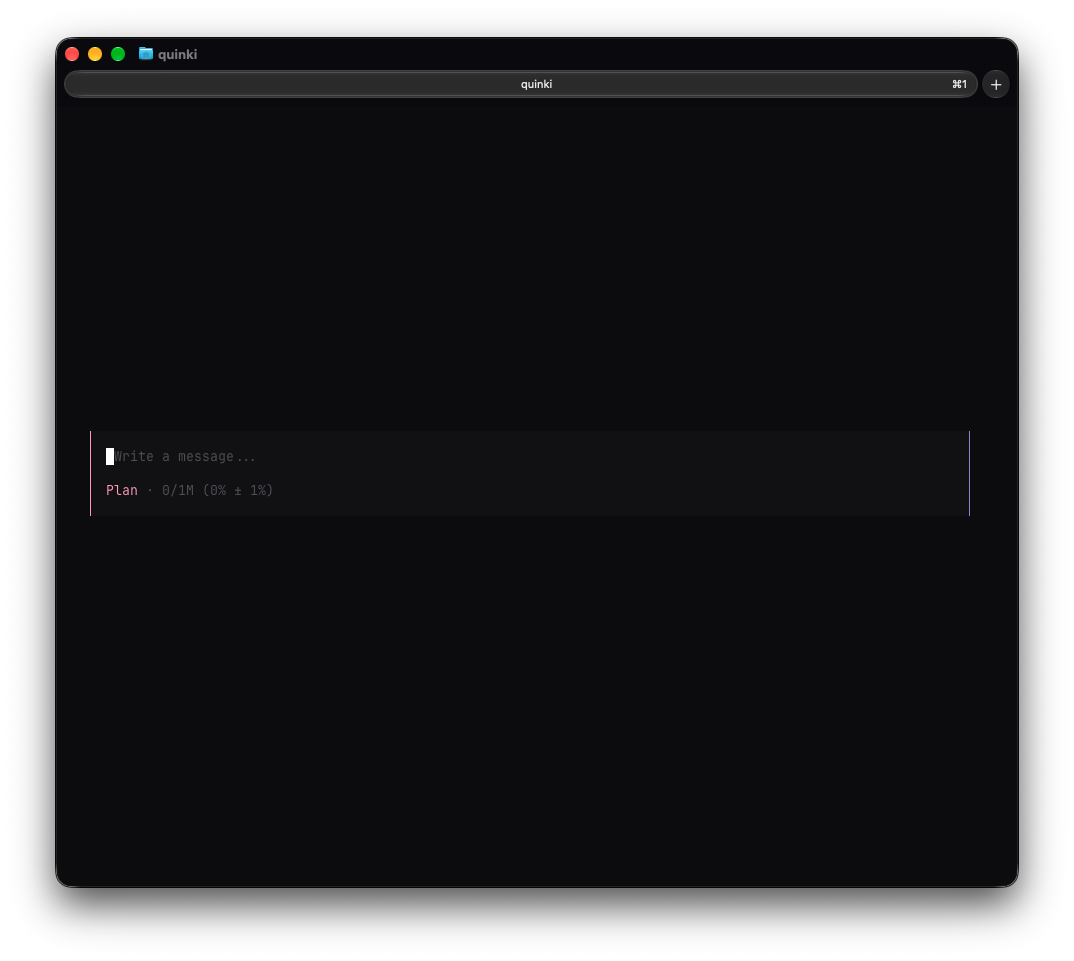
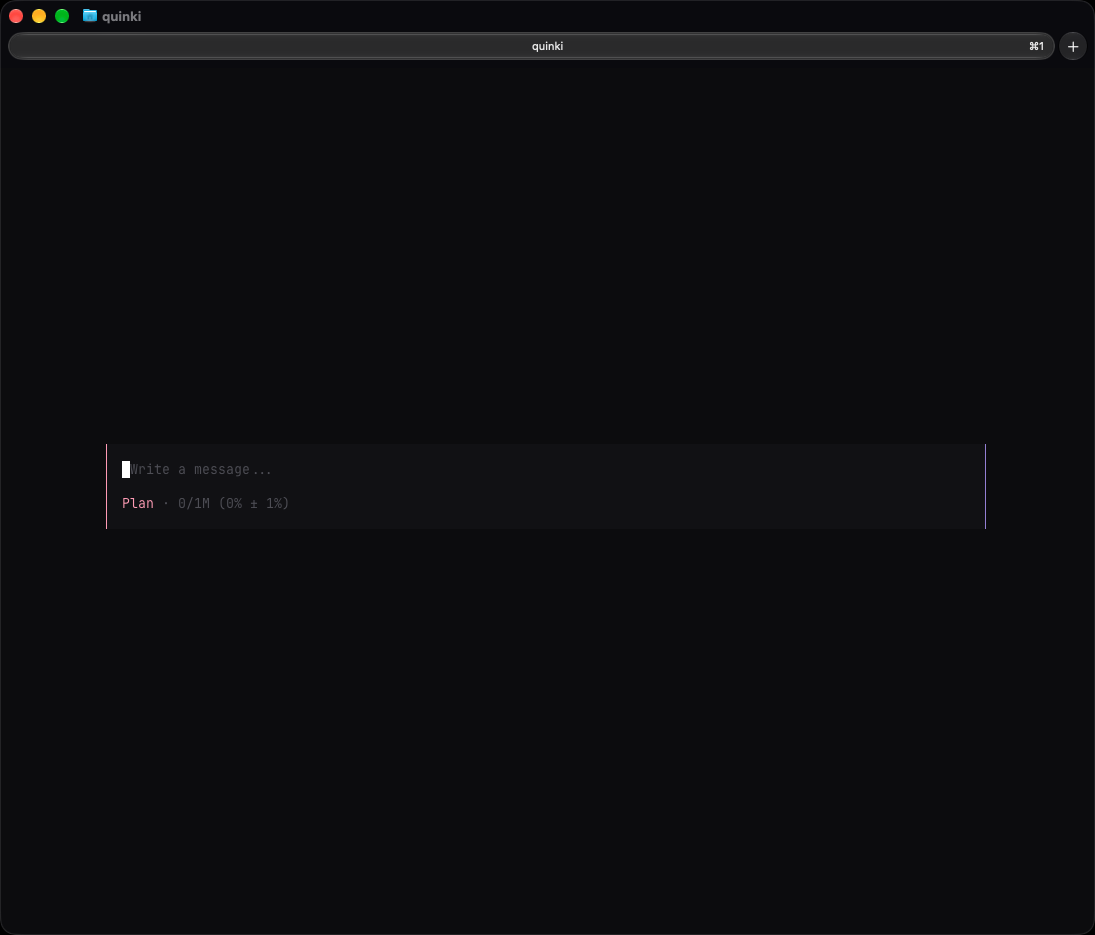
Site (gh-pages): showcase gallery with App/CLI states + cropped screenshots

Changed region(s): [[0.0, 0.0, 1.0, 1.0], [0.0922, 0.4652, 0.2458, 0.5583]]

diff --git a/site/index.html b/site/index.html
@@ -42,6 +42,21 @@
   .btn.ghost:hover { background: var(--q-elevated); }
   .soon-note { margin-top: 14px; color: var(--q-tertiary); font-size: 12.5px; }
   footer { margin-top: auto; }
+
+  /* Gallery / showcase (7 ott) */
+  .gallery-box { max-width: 880px; margin: 0 auto; background: var(--q-panel); border: 1px solid var(--q-border); border-radius: var(--r-lg); overflow: hidden; }
+  .g-head { display: flex; align-items: center; justify-content: space-between; gap: 10px; padding: 12px 14px 12px; flex-wrap: wrap; }
+  .g-count { color: var(--q-tertiary); font-size: 12px; }
+  .g-stage { position: relative; padding: 0; }
+  .g-img { display: block; width: 100%; background: var(--q-bg); }
+  .g-arrow { position: absolute; top: 50%; transform: translateY(-50%); width: 34px; height: 34px; border-radius: 50%; border: 1px solid var(--q-border); background: rgba(8,8,11,0.72); color: var(--q-secondary); cursor: pointer; display: flex; align-items: center; justify-content: center; padding: 0; }
+  .g-arrow:hover { color: var(--q-accent); border-color: var(--q-accent); }
+  .g-arrow svg { width: 15px; height: 15px; }
+  .g-prev { left: 24px; }
+  .g-next { right: 24px; }
+  .g-cap { padding: 12px 16px 14px; }
+  .g-title { font-size: 14px; font-weight: 700; }
+  .g-desc { color: var(--q-secondary); font-size: 12.5px; margin-top: 3px; line-height: 1.5; }
   .ib-desc-row { display: flex; align-items: baseline; justify-content: space-between; gap: 12px; margin-bottom: 10px; flex-wrap: wrap; }
   .ib-desc { color: var(--q-secondary); font-size: 12.5px; line-height: 1.5; }
   .ib-ver { color: var(--q-tertiary); font-size: 11.5px; white-space: nowrap; }
@@ -236,6 +251,30 @@
   </div>
 </section>
 
+<section class="wrap block" id="showcase">
+  <div class="sec-head">
+    <h2>Inside Quinki</h2>
+  </div>
+  <div class="gallery-box">
+    <div class="g-head">
+      <div class="ib-tabs">
+        <button type="button" class="ib-tab g-kind on" data-kind="app">App</button>
+        <button type="button" class="ib-tab g-kind" data-kind="cli">CLI</button>
+      </div>
+      <span class="g-count"><span id="g-idx">1</span> / <span id="g-total">7</span></span>
+    </div>
+    <div class="g-stage">
+      <button type="button" class="g-arrow g-prev" aria-label="Previous"><svg viewBox="0 0 24 24" fill="none" stroke="currentColor" stroke-width="2" stroke-linecap="round" stroke-linejoin="round"><polyline points="15 18 9 12 15 6"/></svg></button>
+      <img class="g-img" id="g-img" src="screenshots/home.png" alt="Quinki home">
+      <button type="button" class="g-arrow g-next" aria-label="Next"><svg viewBox="0 0 24 24" fill="none" stroke="currentColor" stroke-width="2" stroke-linecap="round" stroke-linejoin="round"><polyline points="9 18 15 12 9 6"/></svg></button>
+    </div>
+    <div class="g-cap">
+      <div class="g-title" id="g-title">Home</div>
+      <div class="g-desc" id="g-desc">One click to everything: your sessions, tasks, agents, market, settings and log, in a grid you can rearrange.</div>
+    </div>
+  </div>
+</section>
+
 <footer>
   <div class="wrap">
     <div class="frow">
@@ -375,6 +414,47 @@ document.addEventListener('keydown', function(e) { if (e.key === 'Escape') close
       });
     })(copies[k]);
   }
+})();
+</script>
+<script>
+(function(){
+  var G = {
+    app: [
+      { img: 'screenshots/home.png', title: 'Home', desc: 'One click to everything: your sessions, tasks, agents, market, settings and log, in a grid you can rearrange.' },
+      { img: 'screenshots/sessions.png', title: 'Sessions', desc: 'Chats with your agents. Parallel sessions with visible delegation blocks, folders and notifications.' },
+      { img: 'screenshots/agents-tasks.png', title: 'Agents Tasks', desc: 'A calendar of agent work: scheduled jobs and running tasks, visible at a glance.' },
+      { img: 'screenshots/agents.png', title: 'Agents', desc: 'Create and manage your agents: prompts, tools, skills and models.' },
+      { img: 'screenshots/market.png', title: 'Market', desc: 'Install skills, agents, tabs, MCP servers and themes from the built-in Market.' },
+      { img: 'screenshots/settings.png', title: 'Settings', desc: 'Providers and models, themes, remote access, app updates and more.' },
+      { img: 'screenshots/log.png', title: 'Log', desc: 'A live debug log, so you always see what the app is doing under the hood.' }
+    ],
+    cli: [
+      { img: 'screenshots/cli.png', title: 'CLI', desc: 'The whole Quinki in your terminal. Same sessions, agents and skills as the app.' },
+      { img: 'screenshots/cli-slash.png', title: 'CLI, slash menu', desc: 'Type / for the command menu: same actions, same look as the app.' }
+    ]
+  };
+  var kind = 'app', idx = 0;
+  function render(){
+    var list = G[kind];
+    if (idx < 0) idx = list.length - 1;
+    if (idx >= list.length) idx = 0;
+    var it = list[idx];
+    document.getElementById('g-img').src = it.img;
+    document.getElementById('g-img').alt = 'Quinki ' + it.title;
+    document.getElementById('g-title').textContent = it.title;
+    document.getElementById('g-desc').textContent = it.desc;
+    document.getElementById('g-idx').textContent = String(idx + 1);
+    document.getElementById('g-total').textContent = String(list.length);
+    var ks = document.querySelectorAll('.g-kind');
+    for (var i = 0; i < ks.length; i++) ks[i].classList.toggle('on', ks[i].getAttribute('data-kind') === kind);
+  }
+  var ks = document.querySelectorAll('.g-kind');
+  for (var i = 0; i < ks.length; i++) (function(b){
+    b.addEventListener('click', function(){ kind = b.getAttribute('data-kind'); idx = 0; render(); });
+  })(ks[i]);
+  document.querySelector('.g-prev').addEventListener('click', function(){ idx--; render(); });
+  document.querySelector('.g-next').addEventListener('click', function(){ idx++; render(); });
+  render();
 })();
 </script>
 </body>
